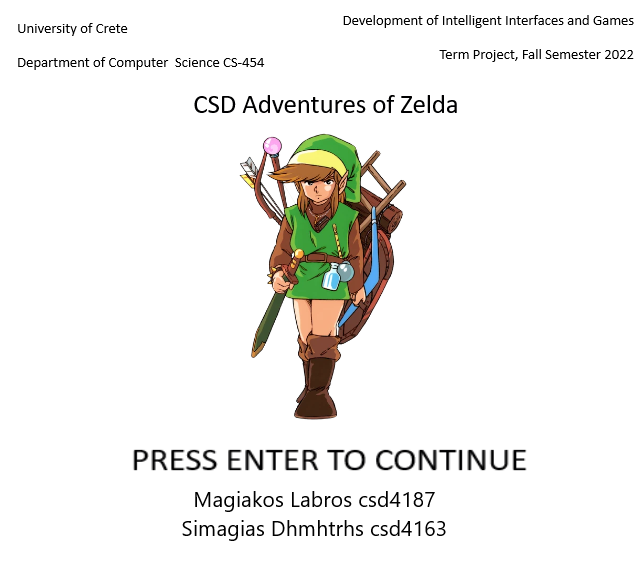
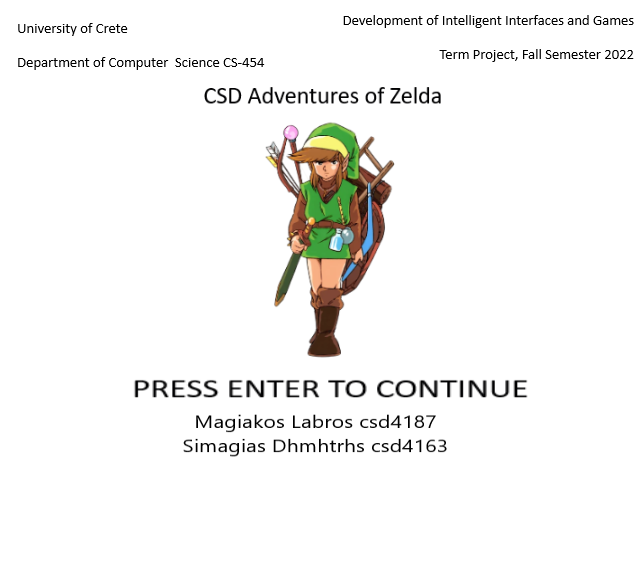
Added a Start screen, need to implement logic behind it (finite state machine). For now it just looks pretty. (You can still bypass it by pressing the arrows)

Changed region(s): [[0.1875, 0.1507, 0.8438, 0.844], [0.2812, 0.8741, 0.6875, 0.9645]]

diff --git a/Game454/Headers/Render.h b/Game454/Headers/Render.h
@@ -431,6 +431,7 @@ void Renderer()
 {
 	while (!EventQueue.empty()) //Check all the user input in a frame
 	{
+		cout << "Render..\n";
 		Event e = EventQueue.front();	
 		EventQueue.pop();
 		if (e.eventType == EventType_Scroll)
@@ -439,6 +440,7 @@ void Renderer()
 		}
 		else if (e.eventType == EventType_Action)	//check if im at the starting screen and if i need to load other bitmaps
 		{
+			al_clear_to_color(al_map_rgb(0,0,0));	//Clear the complete target bitmap, but confined by the clipping rectangle.
 			al_draw_bitmap(bitmap, -cameraX, -cameraY, 0);
 		}
 		else if (e.eventType == EventType_ShowGrid)

diff --git a/Game454/Headers/App.h b/Game454/Headers/App.h
@@ -104,7 +104,7 @@ namespace app
 
 	void Game::Load()
 	{
-		Load_Start_Screen("UnitTests\\Media\\Start_Screen.png");
+		//Load_Start_Screen("UnitTests\\Media\\Start_Screen.png");
 	}
 
 	void Game::Clear()
